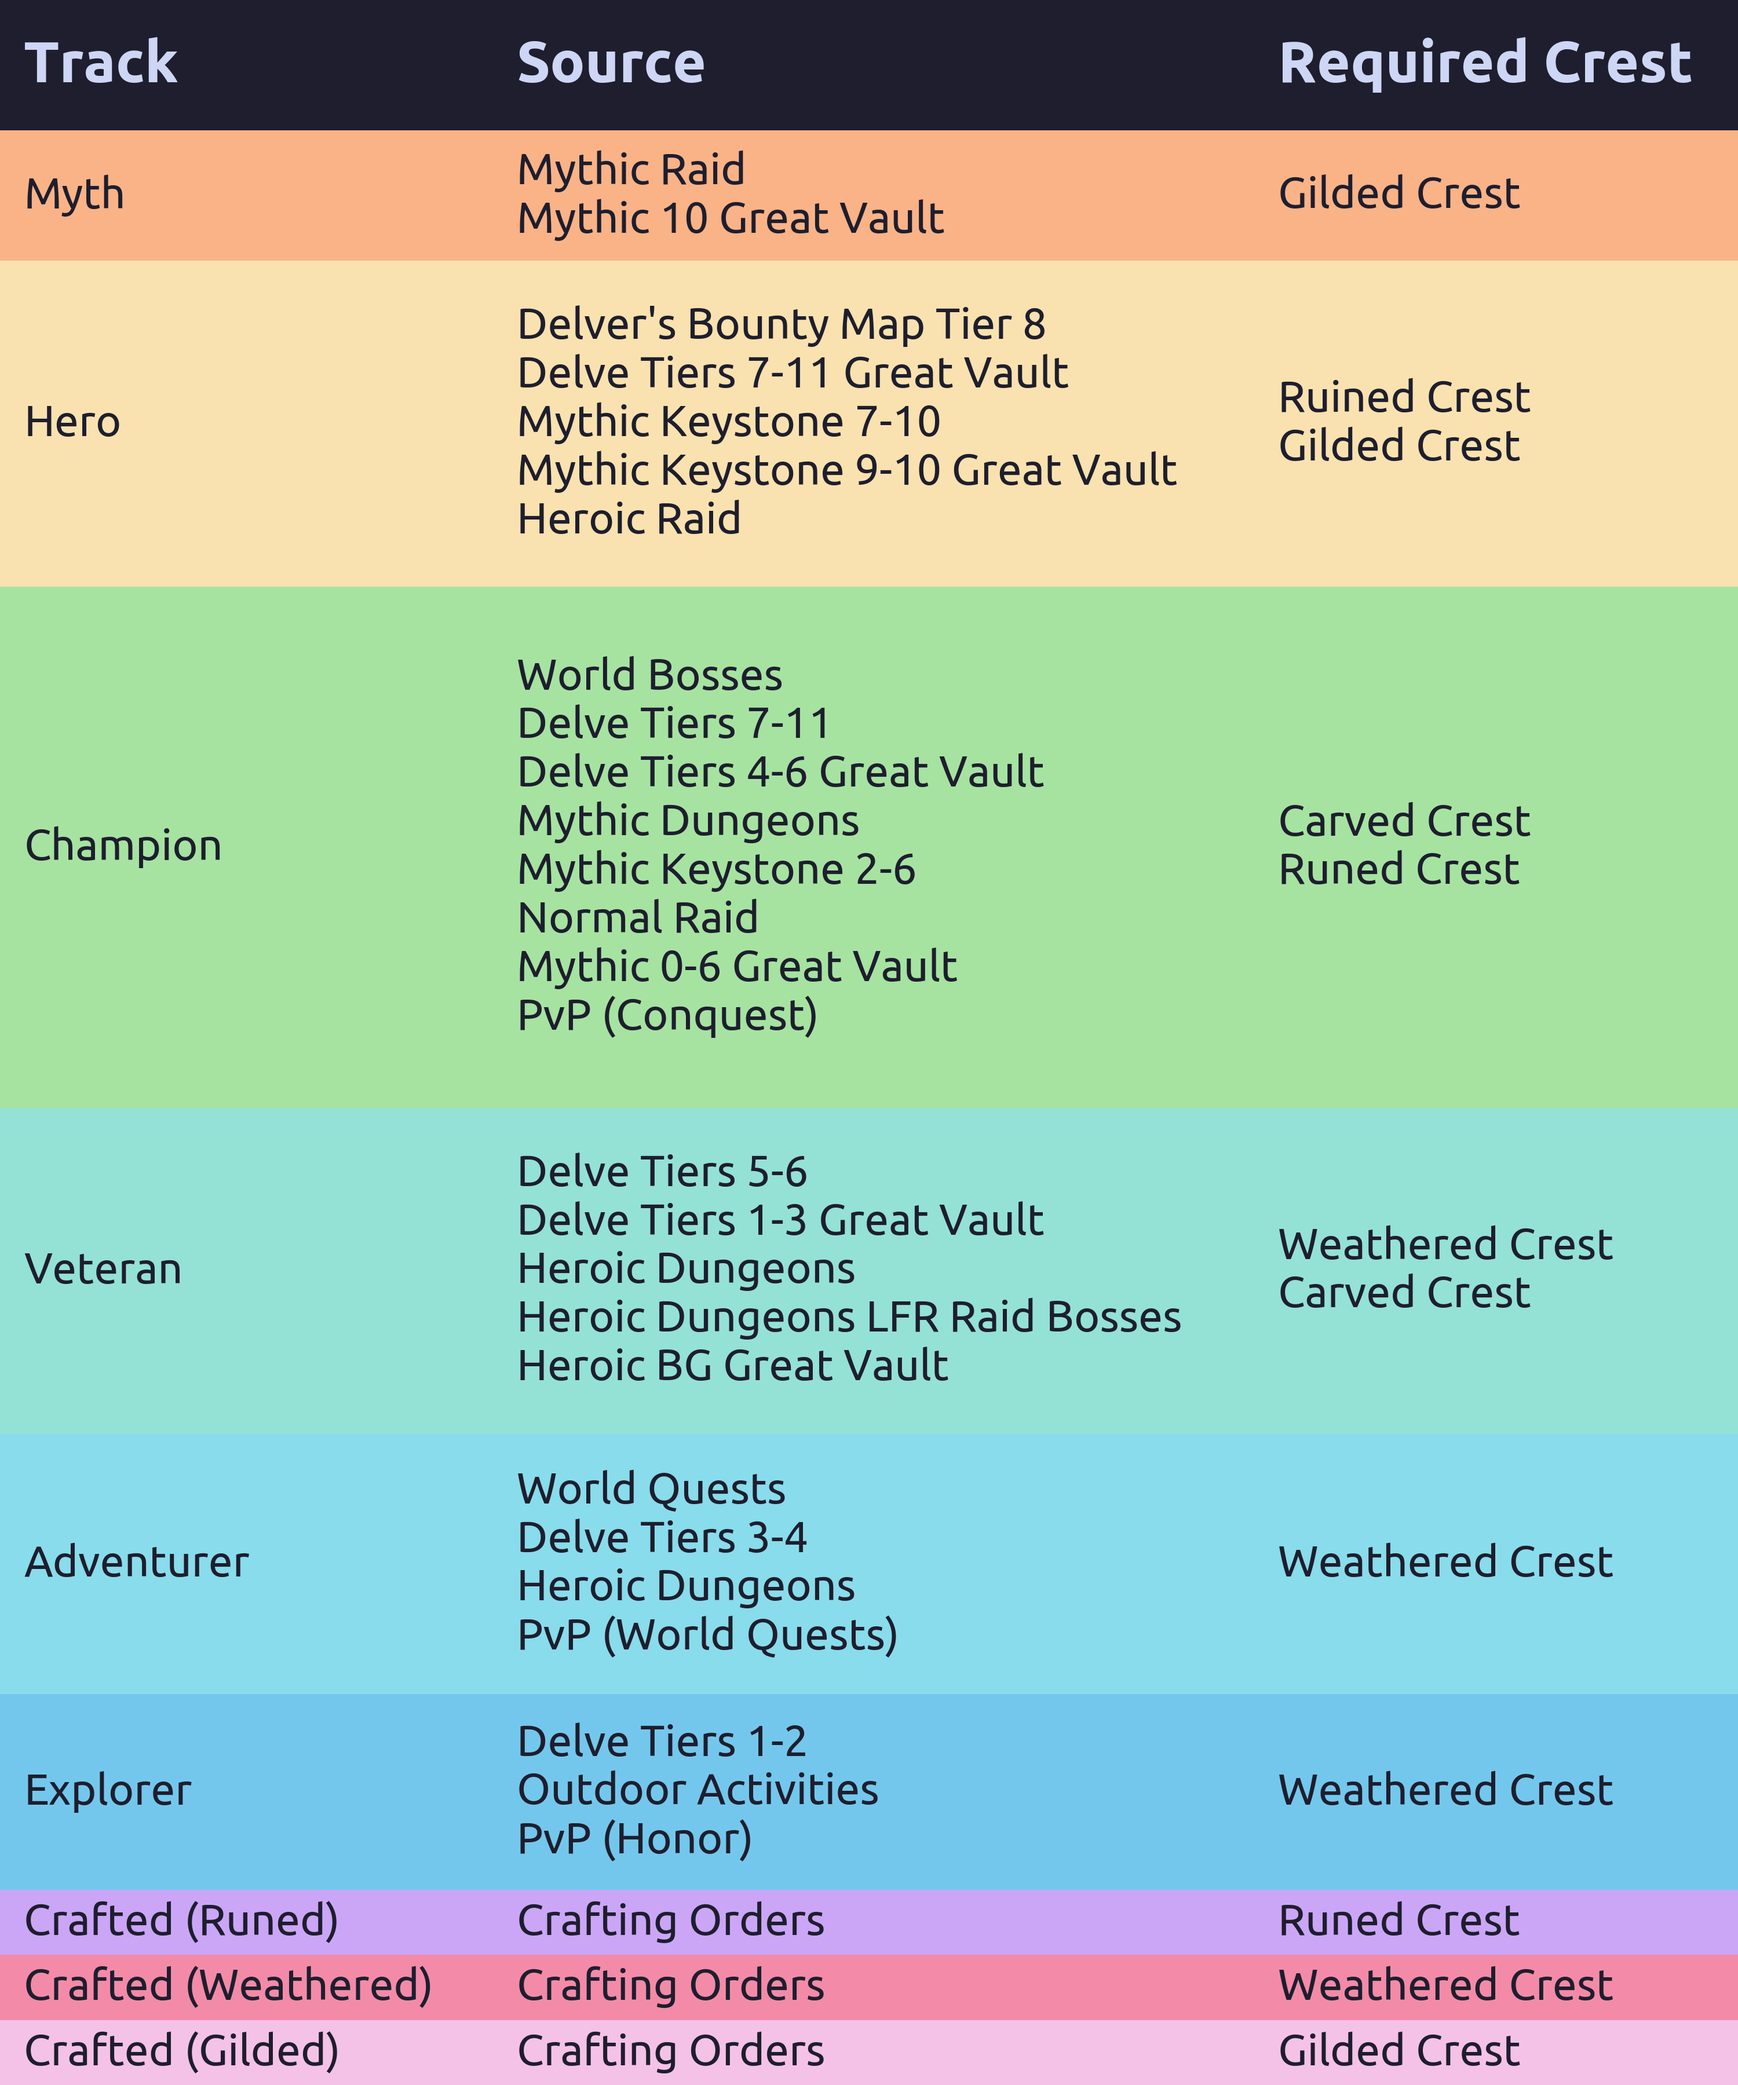
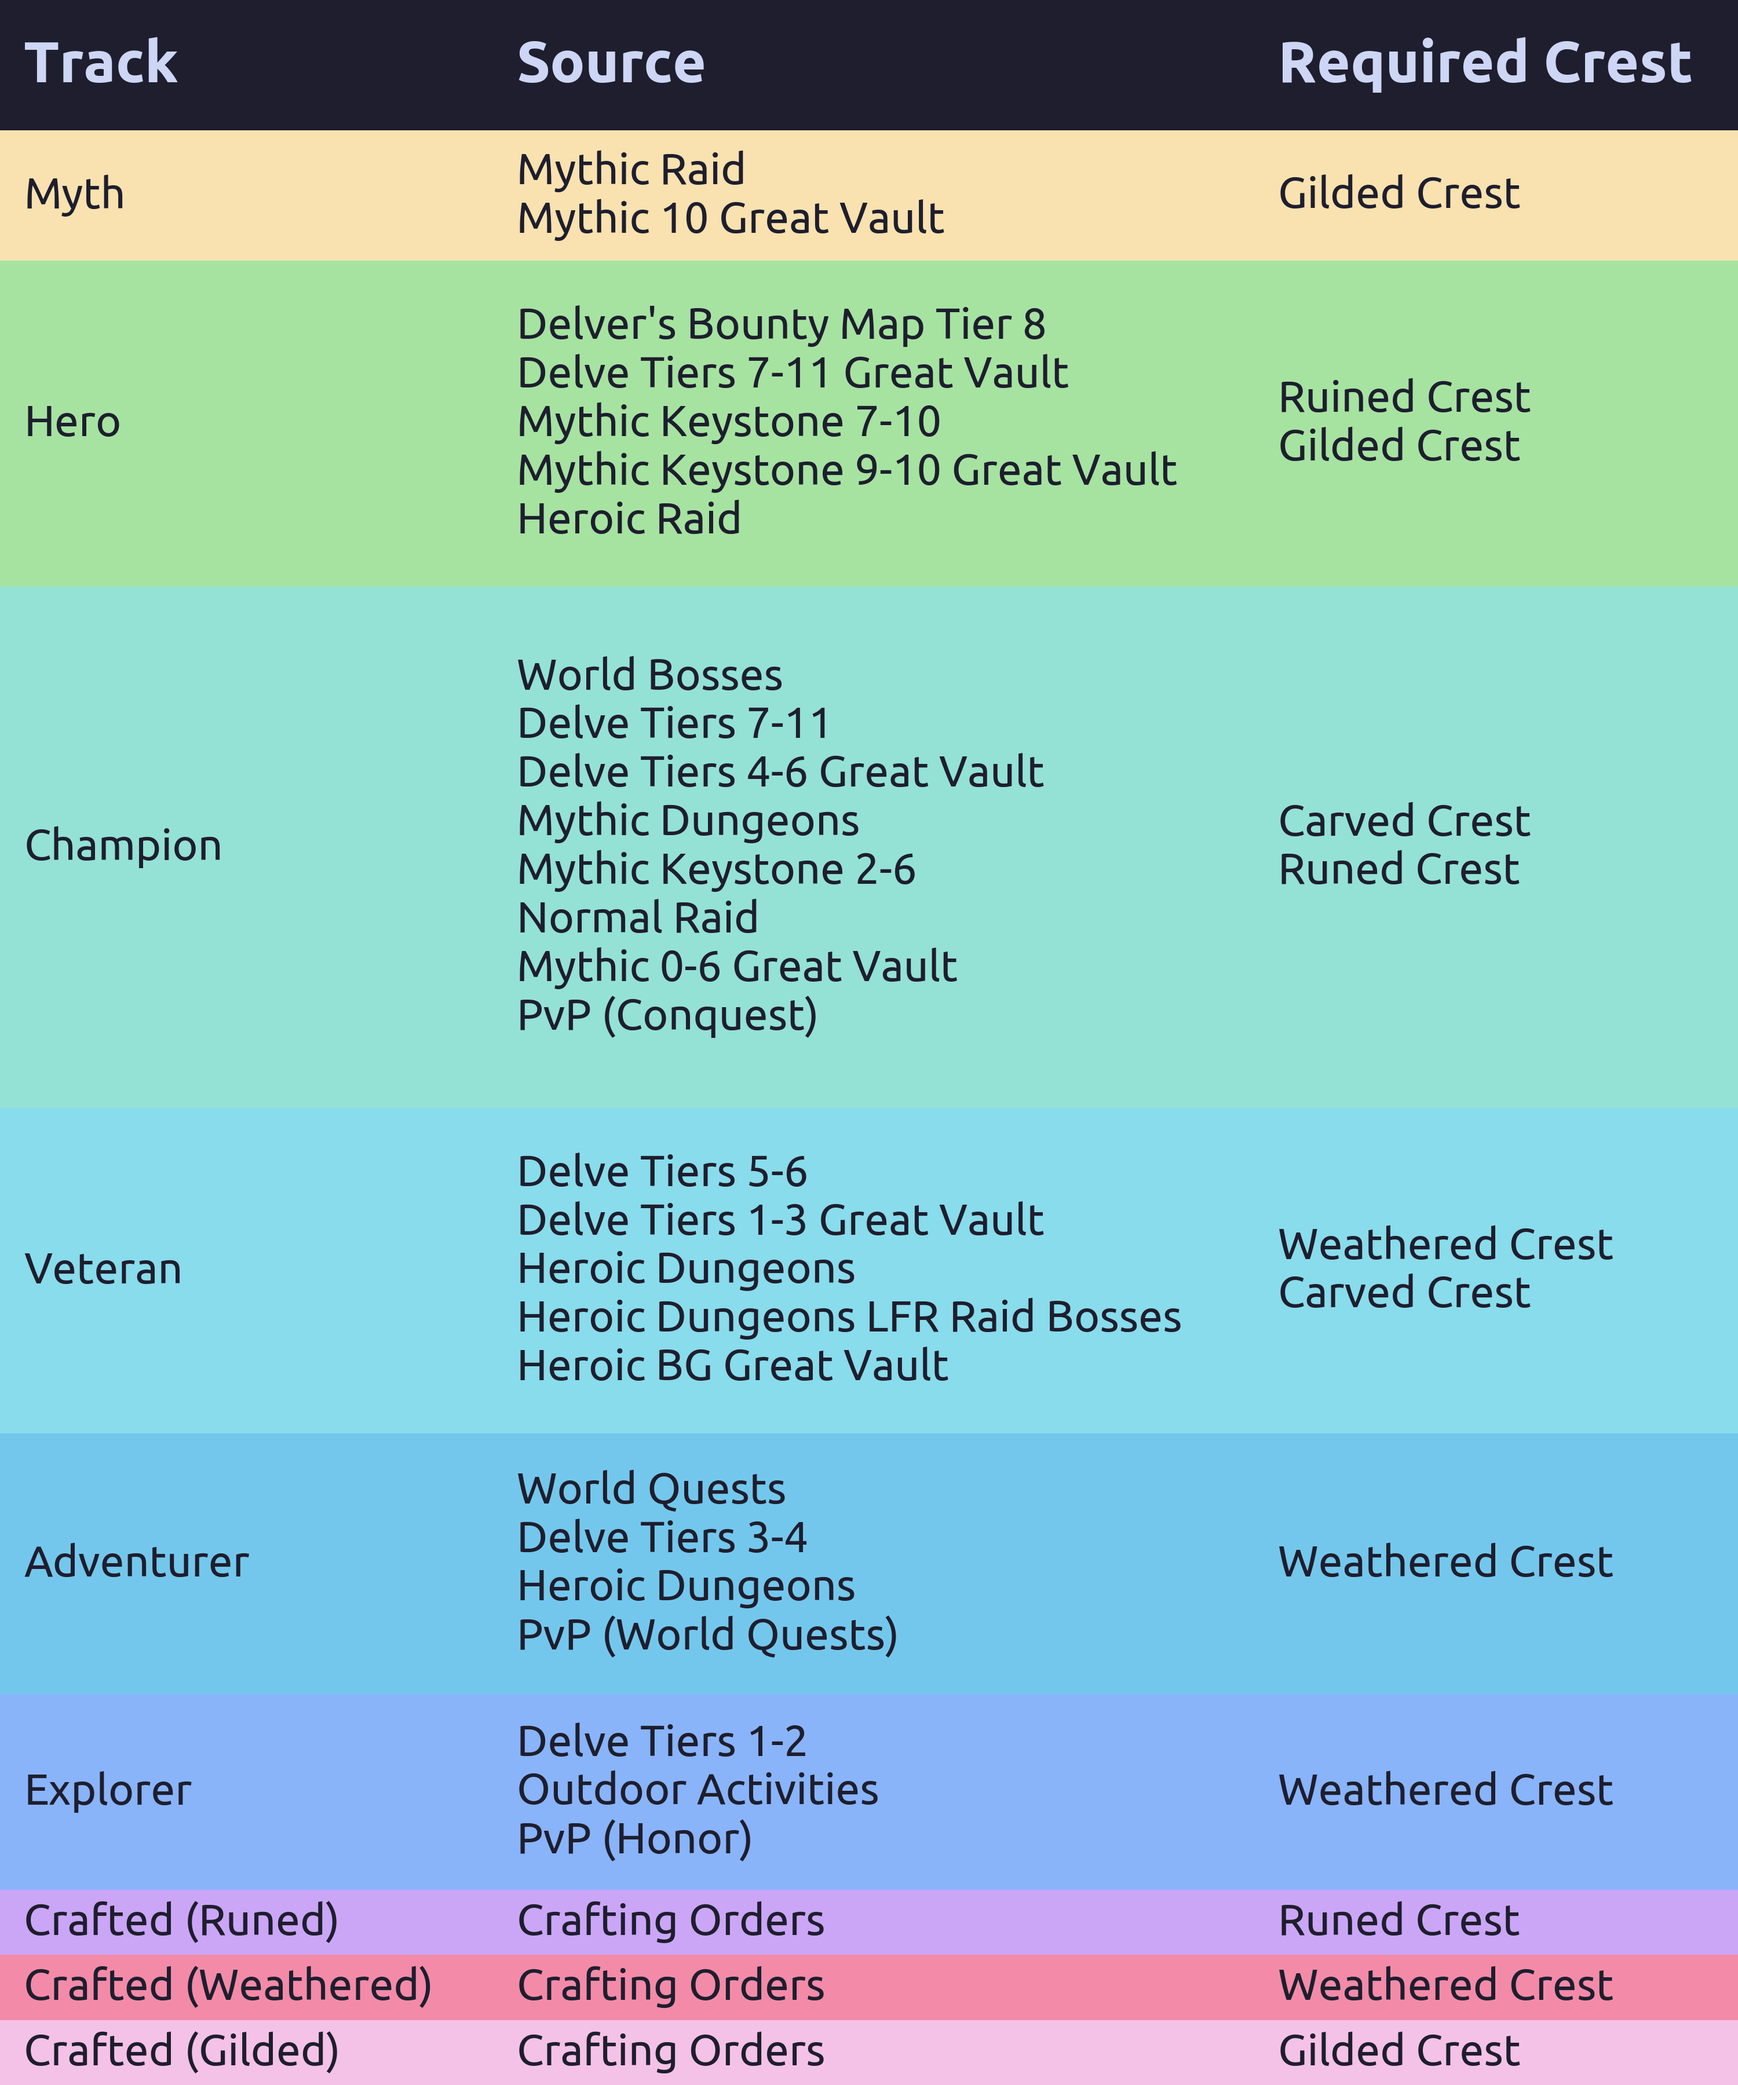
change colors

diff --git a/gear_prog/data.py b/gear_prog/data.py
@@ -28,13 +28,13 @@ colors = {
 }
 
 custom_track_colors = {
-    'Normal Dungeon': colors['Blue'],
-    'Explorer': colors['Sapphire'],
-    'Adventurer': colors['Sky'],
-    'Veteran': colors['Teal'],
-    'Champion': colors['Green'],
-    'Hero': colors['Yellow'],
-    'Myth': colors['Peach'],
+    'Normal Dungeon': colors['Lavender'],
+    'Explorer': colors['Blue'],
+    'Adventurer': colors['Sapphire'],
+    'Veteran': colors['Sky'],
+    'Champion': colors['Teal'],
+    'Hero': colors['Green'],
+    'Myth': colors['Yellow'],
     'Base Spark Crafted': colors['Maroon'],
     'Crafted (Weathered)': colors['Red'],
     'Crafted (Runed)': colors['Mauve'],
